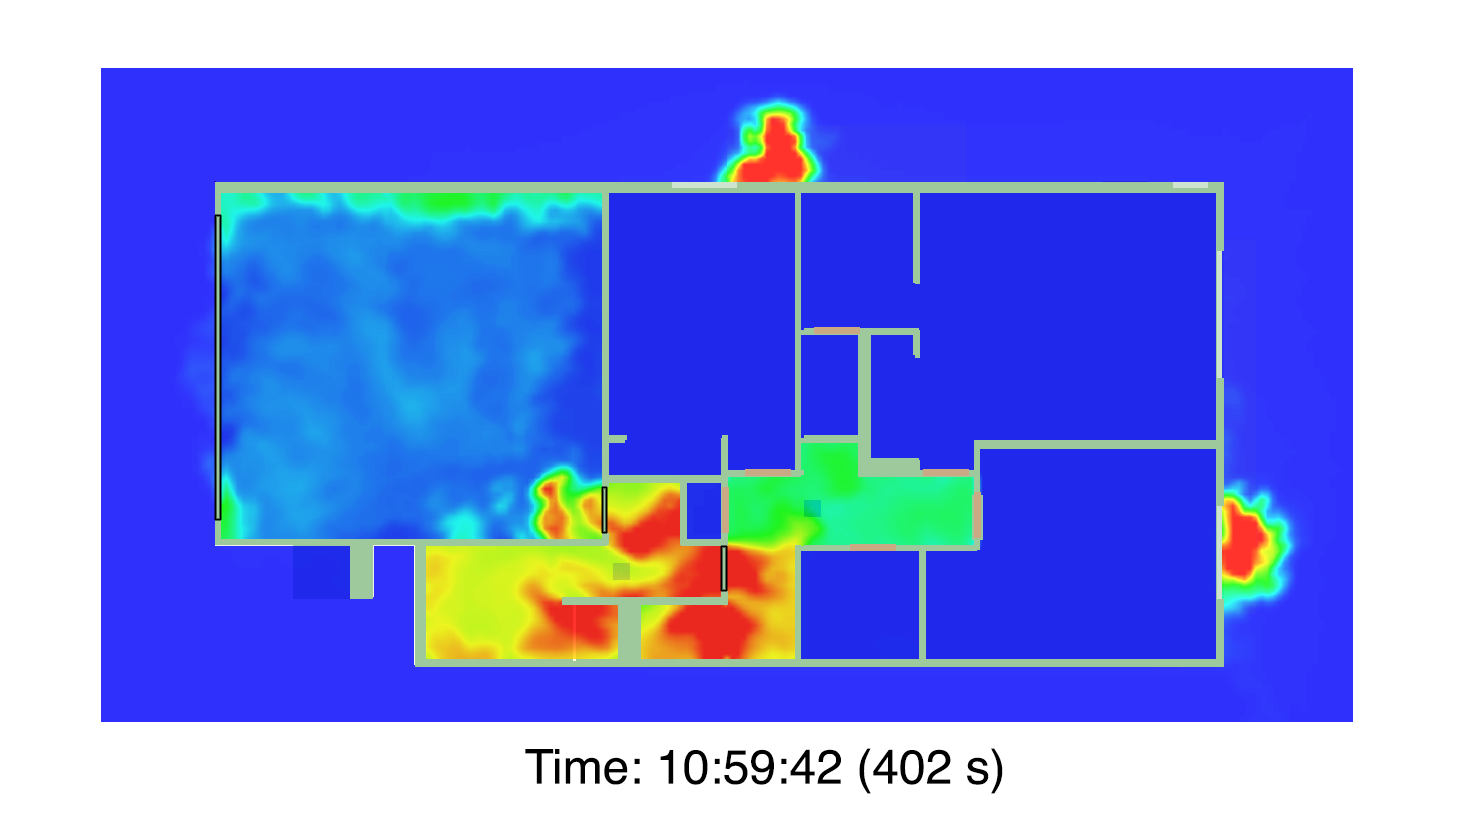
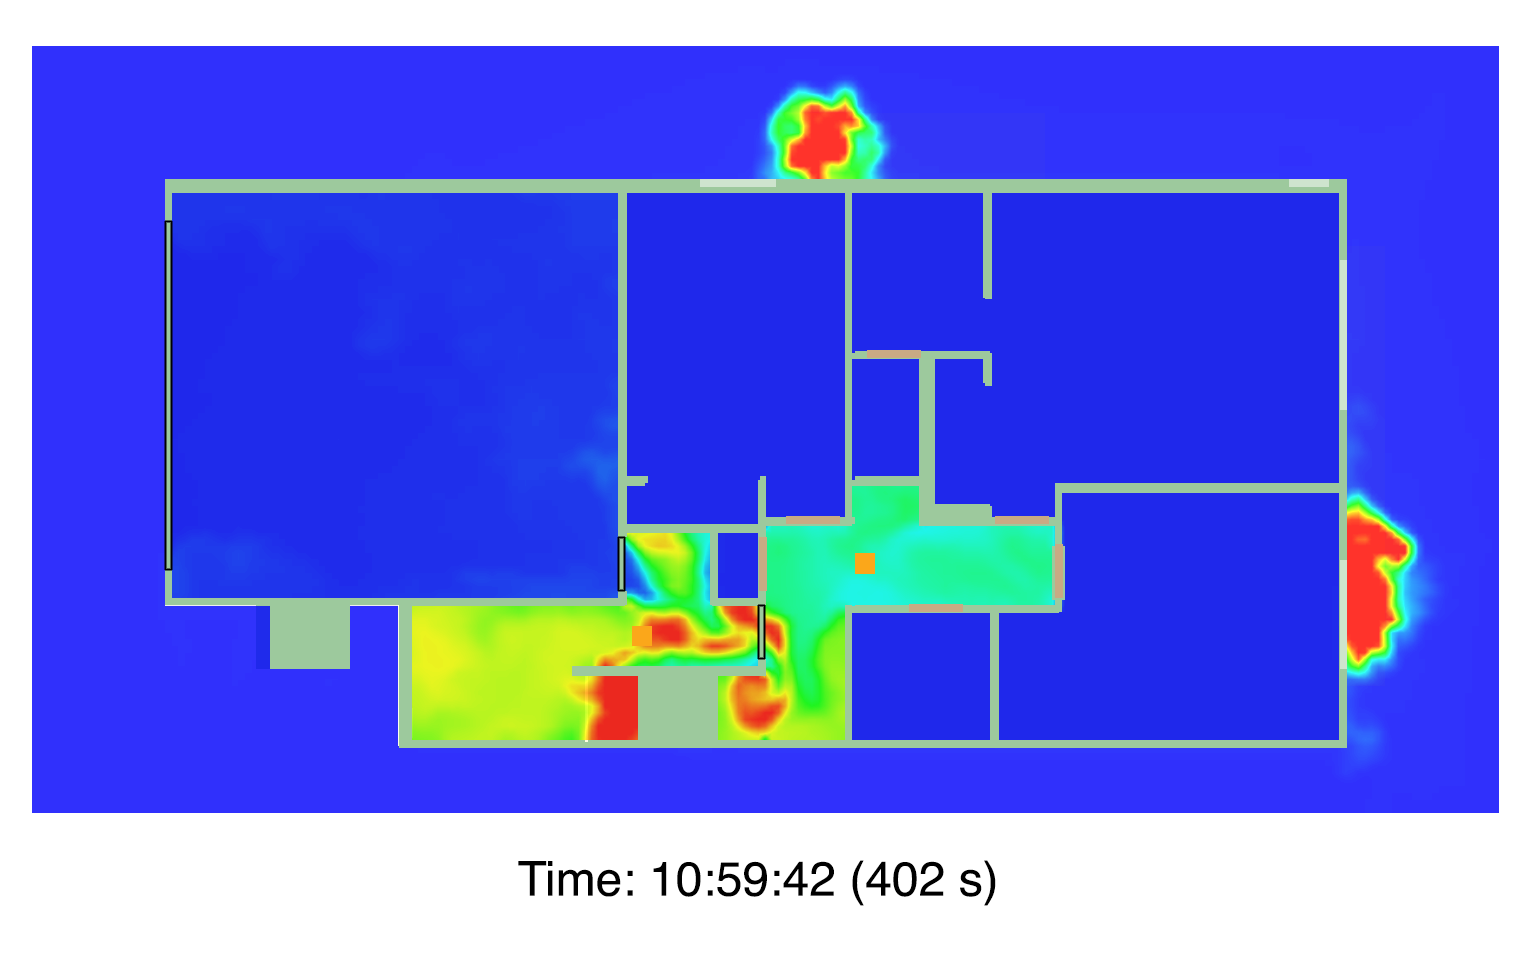
San Francisco: Edits to content and figures in Assessing the Hazard section

diff --git a/Studies/2011_San_Francisco/Report/San_Francisco_Fire.tex b/Studies/2011_San_Francisco/Report/San_Francisco_Fire.tex
@@ -40,7 +40,7 @@
 \hypersetup{
   pdftitle={Simulation of a Fire in a Hillside Residential Structure - San Francisco, CA},
   pdfauthor={Overholt, Kristopher J., Weinschenk, Craig G., and Madrzykowski, Daniel},
-  pdfsubject={The Fire Dynamics Simulator (FDS) fire model, which is developed and maintained by the National Institute of Standards and Technology (NIST), was used to provide insight into the dynamics of a fire that occurred on June 2, 2011, within a multi-level, single-family residential structure in San Francisco, CA, that resulted in the death of two firefighters. The inputs for the FDS simulations are documented in this report and are based on the fire scenario, including the building geometry, interior furnishings, and ventilation conditions. The fire started in the basement and resulted in ventilation limited (fuel rich) fire conditions in the basement area. The fire originated in the basement, and the interior stairwell acted as a chimney for hot gases in the basement to flow towards areas of lower pressure via the interior stairwell towards the front of the structure. After the rear basement windows began to fail, the combustion gases at elevated temperature and pressure in the basement flowed upwards towards lower pressure areas via the stairwell. The temperature of the gases in the interior stairwell was estimated to be in excess of 760~$^{\circ}$C (1400~$^{\circ}$F), which exceeds the Class~III exposure temperature of 260~$^{\circ}$C (500~$^{\circ}$F). Unfortunately, two E26 firefighters were located in the flow path between the basement and the doors on the front side of the structure. After a Mayday call, both firefighters were removed from the structure and immediate medical treatment was provided. The two firefighters were transported to the local medical center where the lieutenant was pronounced dead and the fire fighter/paramedic died two days later.},
+  pdfsubject={The Fire Dynamics Simulator (FDS) fire model, which is developed and maintained by the National Institute of Standards and Technology (NIST), was used to provide insight into the dynamics of a fire that occurred on June 2, 2011, within a multi-level, single-family residential structure in San Francisco, CA, that resulted in the death of two firefighters. The inputs for the FDS simulations are documented in this report and are based on the fire scenario, including the building geometry, interior furnishings, and ventilation conditions. The fire started in the basement and resulted in ventilation limited (fuel rich) fire conditions in the basement area. The fire originated in the basement, and the interior stairwell acted as a chimney for hot gases in the basement to flow towards areas of lower pressure via the interior stairwell towards the front of the structure. After the rear basement windows began to fail, the combustion gases at elevated temperature and pressure in the basement flowed upwards towards lower pressure areas via the stairwell. The temperature of the gases in the interior stairwell was estimated to be in excess of 700~$^{\circ}$C (1300~$^{\circ}$F), which exceeds the Class~III exposure temperature of 260~$^{\circ}$C (500~$^{\circ}$F). Unfortunately, two E26 firefighters were located in the flow path between the basement and the doors on the front side of the structure. After a Mayday call, both firefighters were removed from the structure and immediate medical treatment was provided. The two firefighters were transported to the local medical center where the lieutenant was pronounced dead and the fire fighter/paramedic died two days later.},
   pdfkeywords={flow path; fire dynamics; LODD; fire modeling; FDS simulation}
 }
 
@@ -224,7 +224,7 @@ W \> Watt \\
 
 The Fire Dynamics Simulator (FDS) fire model, which is developed and maintained by the National Institute of Standards and Technology (NIST), was used to provide insight into the dynamics of a fire that occurred on June 2, 2011, within a multi-level, single-family residential structure in San Francisco, CA, that resulted in the death of two firefighters. The inputs for the FDS simulations are documented in this report and are based on the fire scenario, including the building geometry, interior furnishings, and ventilation conditions. The fire started in the basement and resulted in ventilation limited (fuel rich) fire conditions in the basement area.
 
-The fire originated in the basement, and the interior stairwell acted as a chimney for hot gases in the basement to flow towards areas of lower pressure via the interior stairwell towards the front of the structure. After the rear basement windows began to fail, the combustion gases at elevated temperature and pressure in the basement flowed upwards towards lower pressure areas via the stairwell. The temperature of the gases in the interior stairwell was estimated to be in excess of 760~$^{\circ}$C (1400~$^{\circ}$F), which exceeds the Class~III exposure temperature of 260~$^{\circ}$C (500~$^{\circ}$F). Unfortunately, two E26 firefighters were located in the flow path between the basement and the doors on the front side of the structure. After a Mayday call, both firefighters were removed from the structure and immediate medical treatment was provided. The two firefighters were transported to the local medical center where the lieutenant was pronounced dead and the fire fighter/paramedic died two days later.
+The fire originated in the basement, and the interior stairwell acted as a chimney for hot gases in the basement to flow towards areas of lower pressure via the interior stairwell towards the front of the structure. After the rear basement windows began to fail, the combustion gases at elevated temperature and pressure in the basement flowed upwards towards lower pressure areas via the stairwell. The temperature of the gases in the interior stairwell was estimated to be in excess of 700~$^{\circ}$C (1300~$^{\circ}$F), which exceeds the Class~III exposure temperature of 260~$^{\circ}$C (500~$^{\circ}$F). Unfortunately, two E26 firefighters were located in the flow path between the basement and the doors on the front side of the structure. After a Mayday call, both firefighters were removed from the structure and immediate medical treatment was provided. The two firefighters were transported to the local medical center where the lieutenant was pronounced dead and the fire fighter/paramedic died two days later.
 
 
 \chapter{Introduction}
@@ -856,18 +856,18 @@ The arrows shown in Fig.~\ref{fig:flow_path_top} indicate the simulated flow dir
 
 A person is susceptible to second-degree burn injuries if exposed to temperatures greater than 55~$^{\circ}$C (130~$^{\circ}$F)~\cite{contactburn}. Although firefighters wear protective gear, gear only offers a finite amount of protection. The polycarbonate in a self-contained breathing apparatus begins to soften when the material temperature reaches approximately 140~$^{\circ}$C (284~$^{\circ}$F)~\cite{mensch2011emergency}. Structural fire fighting coats and pants are tested to withstand temperatures of 260~$^{\circ}$C (500~$^{\circ}$F)~\cite{nfpa2013standard}. Prolonged exposure to elevated temperatures can result in a significant amount of heat transferred to the firefighter, putting him or her at risk. Exposure of equipment to temperatures of 260~$^{\circ}$C (500~$^{\circ}$F) represents a Class~III exposure~\cite{Donnelly2006}. Firefighters are at increased risk levels when encountering Class~III exposure conditions for more than 5~minutes~\cite{Donnelly2006}.
 
-Figure~\ref{fig:smv_flow_path_top_1} shows a top view of the temperature contours (at a height of 1.2~m above the floor) on the first floor, 2~s before the first rear basement window failed. At this time, the temperature of the gases in the interior stairwell exceeded 200~$^{\circ}$C (400~$^{\circ}$F).
+Figure~\ref{fig:smv_flow_path_top_1} shows a top view of the temperature contours at a height of 0.3~m (1~ft) above the floor on the first floor, 2~s before the first rear basement window failed. At this time, the temperature of the gases in the interior stairwell were in excess of 200~$^{\circ}$C (400~$^{\circ}$F).
 
 \begin{figure}[!ht]
 \includegraphics[width=4.3in]{../Figures/SMV_Top_Temp_340_s}
 \input{../Figures/colorbar_metric_temp}
 \input{../Figures/colorbar_std_temp}
 \caption[Simulated temperature contours on the first floor before basement window failure.]
-{Top view of simulated temperature contours on the first floor, 1.2~m above the floor (mid-level height), 2~s before the first rear basement window failure.}
+{Top view of simulated temperature contours on the first floor, 0.3~m (1~ft) above the floor, 2~s before the first rear basement window failure. The orange markers indicate the locations of the downed firefighters.}
 \label{fig:smv_flow_path_top_1}
 \end{figure}
 
-Figure~\ref{fig:smv_flow_path_top_2} shows a top view of the temperature contours (at a height of 1.2~m above the floor) on the first floor, 60~s and 120~s after the first rear basement window failed. At a time of 60~s after the first rear basement window failed, the temperature of the gases in the interior stairwell exceeded 540~$^{\circ}$C (1000~$^{\circ}$F), which exceeds the Class~III exposure temperature of 260~$^{\circ}$C (500~$^{\circ}$F). As more rear basement windows failed and provided ambient air to the growing basement fire, the temperatures in the interior stairwell continued to rise. At a time of 120~s after the first rear basement window failed, the temperature of the gases in the interior stairwell exceeded 760~$^{\circ}$C (1400~$^{\circ}$F), which exceeds the Class~III exposure temperature of 260~$^{\circ}$C (500~$^{\circ}$F).
+Figure~\ref{fig:smv_flow_path_top_2} shows a top view of the temperature contours at a height of 0.3~m (1~ft) above the floor on the first floor, 60~s and 120~s after the first rear basement window failed. At a time of 60~s after the first rear basement window failed, the temperature of the gases in the interior stairwell were in excess of 540~$^{\circ}$C (1000~$^{\circ}$F), which exceeds the Class~III exposure temperature of 260~$^{\circ}$C (500~$^{\circ}$F). As more rear basement windows failed and provided ambient air to the growing basement fire, the temperatures in the interior stairwell continued to rise. At a time of 120~s after the first rear basement window failed, the temperature of the gases in the interior stairwell were in excess of 700~$^{\circ}$C (1300~$^{\circ}$F), and the temperatures near the door leading from the interior stairwell into the first floor hallway were in excess of 200~$^{\circ}$C (400~$^{\circ}$F) at a height of 0.3~m (1~ft) above the floor.
 
 
 \clearpage
@@ -881,11 +881,11 @@ Figure~\ref{fig:smv_flow_path_top_2} shows a top view of the temperature contour
 \input{../Figures/colorbar_metric_temp}
 \input{../Figures/colorbar_std_temp}
 \caption[Simulated temperature contours on the first floor after basement window failure.]
-{Top view of simulated temperature contours on the first floor, 1.2~m above the floor (mid-level height), 60~s (top) and 120~s (bottom) after the first rear basement window failure.}
+{Top view of simulated temperature contours on the first floor, 0.3~m (1~ft) above the floor, 60~s (top) and 120~s (bottom) after the first rear basement window failure.}
 \label{fig:smv_flow_path_top_2}
 \end{figure}
 
-Based on these results and the simulation results shown in Sections~\ref{sec:velocity} and \ref{sec:temperature}, after the rear basement windows failed, the simulated flow path temperatures in the interior stairwell were in excess of 760~$^{\circ}$C (1400~$^{\circ}$F) and the flow velocities were approximately 9~m/s (20 mph). The conditions in the interior stairwell changed from tenable to high-hazard very rapidly following the rear basement window failure. Within the structure, the hot gases and smoke were moving  along the flow path from the basement towards the doors located on the front side of the structure via the interior stairwell. The simulated temperatures are consistent with the post-incident conditions that were documented in the interior stairwell.
+Based on these results and the simulation results shown in Sections~\ref{sec:velocity} and \ref{sec:temperature}, after the rear basement windows failed, the simulated flow path temperatures in the interior stairwell were in excess of 700~$^{\circ}$C (1300~$^{\circ}$F) and the flow velocities were approximately 9~m/s (20~mph). The conditions in the interior stairwell changed from tenable to high-hazard very rapidly following the rear basement window failure. Within the structure, the hot gases and smoke were moving along the flow path from the basement towards the doors located on the front side of the structure via the interior stairwell. The simulated temperatures are consistent with the post-incident conditions that were documented in the interior stairwell.
 
 Ongoing research and experimental work is being conducted by NIST to gain a better understanding of convective heat transfer to firefighter personal protective equipment, including firefighting gear, helmets, self-contained breathing apparatuses, etc. The goal of this ongoing research is to parameterize various flow path conditions (elevated temperatures and velocities) and determine their effect on the rate of heat transfer and amount of energy storage in firefighting safety equipment.
 
@@ -947,7 +947,7 @@ F2012-28 \cite{NIOSH:Bowyer}        &  1 LODD             &  Attic fire extended
 
 NIST's Fire Dynamics Simulator was used to provide insight into the fire dynamics of a fire that occurred within a multi-level, single-family residential structure in San Francisco, CA, that resulted in the death of two firefighters. The fuel, fire size, and fire growth rate that were used in the FDS simulations were estimated by taking into account all of the available information including the NIOSH post-incident report~\cite{NIOSH:Bowyer2}, post-incident pictures, and relevant literature. This resulted in a maximum specified source fire of approximately 20~MW in the basement and rear balcony of the structure. Based on the limited ventilation conditions in the basement, the FDS simulation results indicated a HRR of approximately 2~MW as a result of the limited supply of oxygen. After the rear basement windows failed, the HRR increased to approximately 32~MW before it reached a steady-state value of approximately 20~MW.
 
-The fire originated in the basement, and the interior stairwell acted as a chimney for hot gases in the basement to flow towards areas of lower pressure via the interior stairwell towards the front of the structure. After the rear basement windows failed, a flow path was established between the basement living room area and the doors located on the front side of the structure (the front door and the garage door). The rear basement window failures resulted in a rapid change in the conditions within the flow path. After the rear basement windows began to fail, the combustion gases at elevated temperature and pressure in the basement flowed upwards towards lower pressure areas via the stairwell. In the interior stairwell, the flow velocities were approximately 9~m/s (20 mph) and the temperature of the gases was estimated to be in excess of 760~$^{\circ}$C (1400~$^{\circ}$F), which exceeds the Class~III exposure temperature of 260~$^{\circ}$C (500~$^{\circ}$F).
+The fire originated in the basement, and the interior stairwell acted as a chimney for hot gases in the basement to flow towards areas of lower pressure via the interior stairwell towards the front of the structure. After the rear basement windows failed, a flow path was established between the basement living room area and the doors located on the front side of the structure (the front door and the garage door). The rear basement window failures resulted in a rapid change in the conditions within the flow path. After the rear basement windows began to fail, the combustion gases at elevated temperature and pressure in the basement flowed upwards towards lower pressure areas via the stairwell. In the interior stairwell, the flow velocities were approximately 9~m/s (20~mph) and the temperature of the gases was estimated to be in excess of 700~$^{\circ}$C (1300~$^{\circ}$F), which exceeds the Class~III exposure temperature of 260~$^{\circ}$C (500~$^{\circ}$F).
 
 Unfortunately, two E26 firefighters were located in the flow path between the basement and the doors on the front side of the structure. After a Mayday call, both firefighters were removed from the structure and immediate medical treatment was provided. The two firefighters were transported to the local medical center where the lieutenant was pronounced dead and the fire fighter/paramedic died two days later.
 
